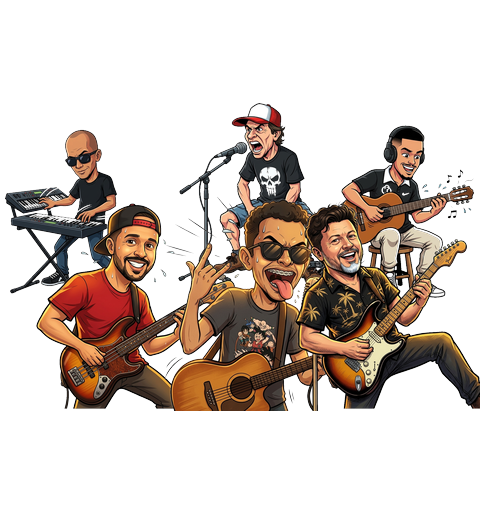
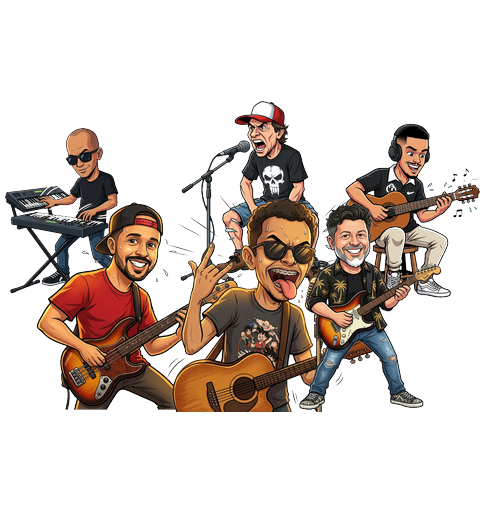
feat(caricatures): Julio de corpo inteiro e palco atualizado

Changed region(s): [[0.0, 0.1868, 0.9897, 0.8093]]

diff --git a/site-retorica-main/sw.js b/site-retorica-main/sw.js
@@ -1,4 +1,4 @@
-const CACHE_NAME = 'retorica-v28';
+const CACHE_NAME = 'retorica-v29';
 const ASSETS = [
   './index.html',
   './regras.html',

diff --git a/sw.js b/sw.js
@@ -1,4 +1,4 @@
-const CACHE_NAME = 'retorica-v28';
+const CACHE_NAME = 'retorica-v29';
 const ASSETS = [
   './index.html',
   './regras.html',
